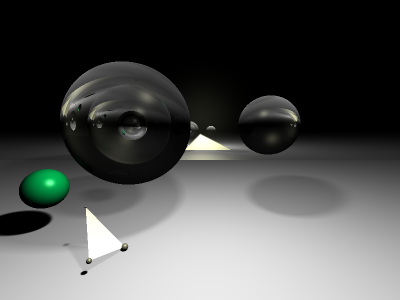
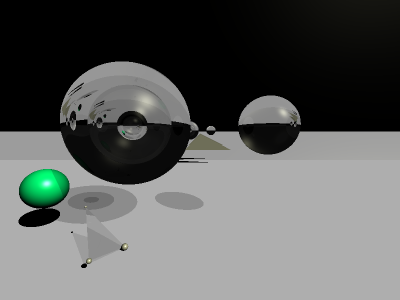
grumble

diff --git a/main.cpp b/main.cpp
@@ -108,7 +108,7 @@ int main(int argc, char **argv)
         vector3df(-1000.0, -500.0, -600.0),
         vector3df(-850.0, -850.0, -400.0),
         vector3df(-700.0, -900.0, -700.0))));
-    tri1.diffuse = vector3df(0.5, 0.5, 0.5);
+    tri1.diffuse = vector3df::zero;
     tri1.refractiveness = vector3df::one * 0.9; // vector3df(0.0, 0.5, 1.0) * 0.9;
     tri1.refractive_index = 1.333;
     tri1.reflectiveness = 0.05;
@@ -135,19 +135,19 @@ int main(int argc, char **argv)
     mirror.specular = vector3df::one * 0.9;
     mirror.diffuse = vector3df::zero;
 
-    //w.lights.push_back(std::make_shared<parallel_light>(w, vector3df(-1.0, -1.0, -1.0).normalize(), vector3df(1.0, 1.0, 0.8) * 1.5));
+    w.lights.push_back(std::make_shared<parallel_light>(w, vector3df(-1.0, -1.0, -1.0).normalize(), vector3df(1.0, 1.0, 0.8) * 1.5));
     //w.lights.push_back(std::make_shared<point_light>(w, vector3df(0.0, 600.0, -1000.0), vector3df(1.0, 1.0, 0.8)));
     //w.lights.push_back(std::make_shared<point_light>(w, vector3df(1000.0, 1500.0, 0.0), vector3df(1.0, 1.0, 0.8)));
     //w.lights.push_back(std::make_shared<point_light>(w, vector3df(0.0, -750.0, -400.0), vector3df(1.0, 1.0, 0.8) * 0.9));
     //w.lights.push_back(std::make_shared<point_light>(w, vector3df(0.0, 1000.0, 100.0), vector3df(1.0, 1.0, 0.8) * 0.9));
 
-    for (int j = 0; j < 8; ++j)
+    /*for (int j = 0; j < 8; ++j)
     {
         for (int i = 0; i < 8; ++i)
         {
             w.lights.push_back(std::make_shared<point_light>(w, vector3df(i * 20, 1000.0, 100.0 - j * 20), vector3df(1.0, 1.0, 0.8) * 0.02));
         }
-    }
+    }*/
 
     camera c(w, vector3df(0.0, 0.0, 1000.0));
         
